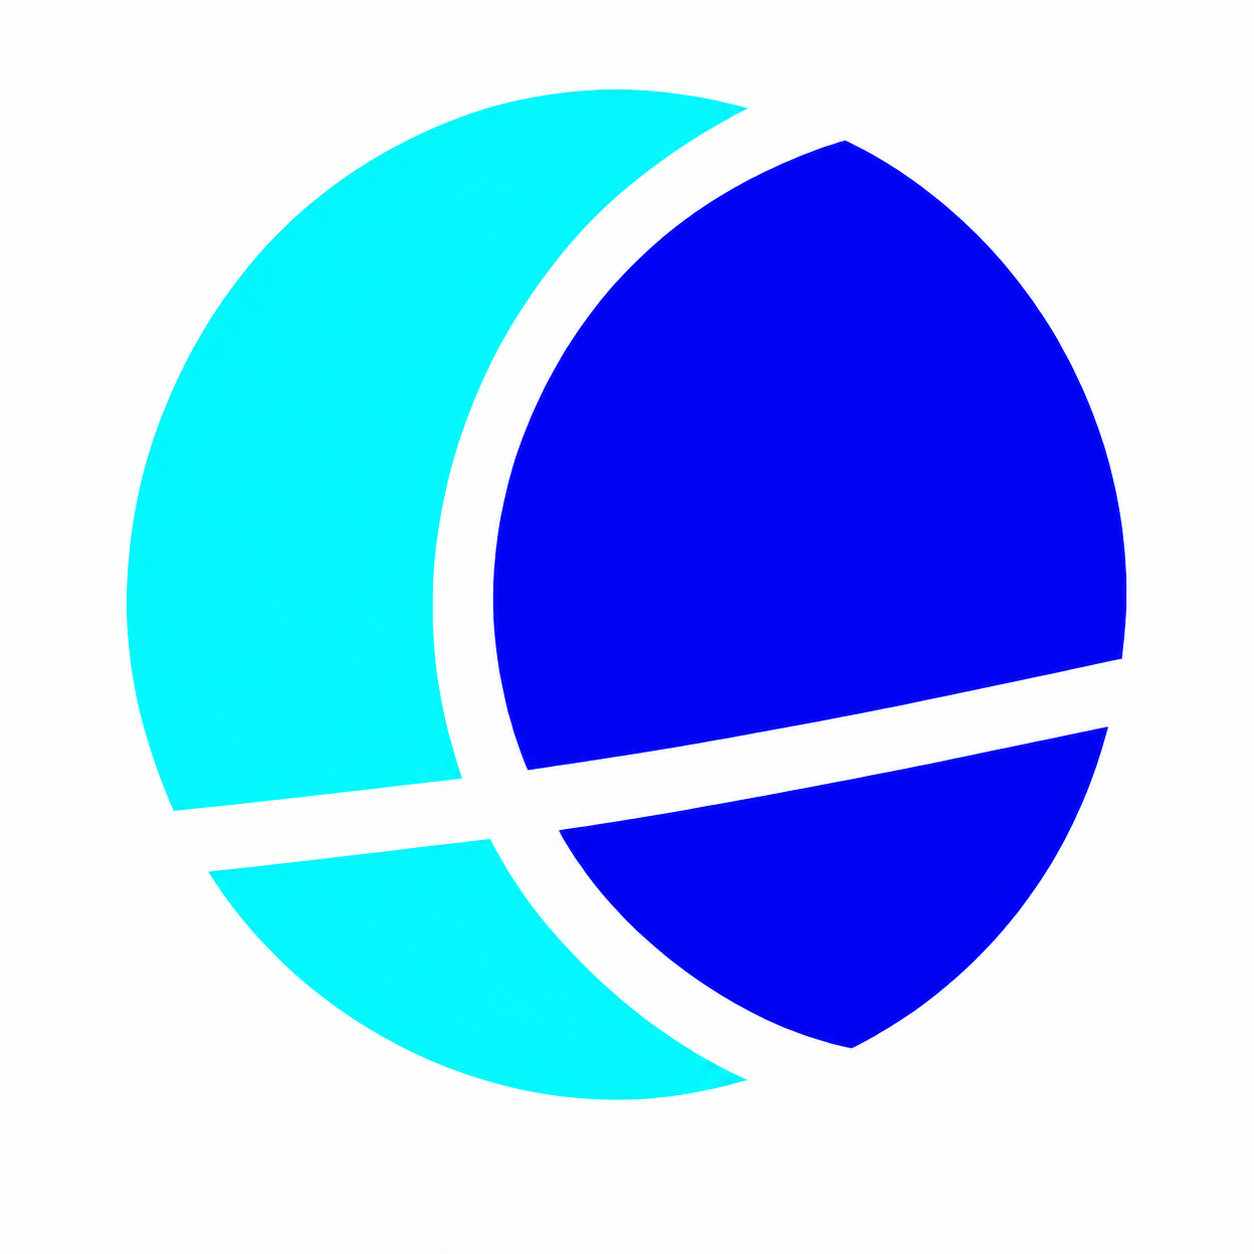
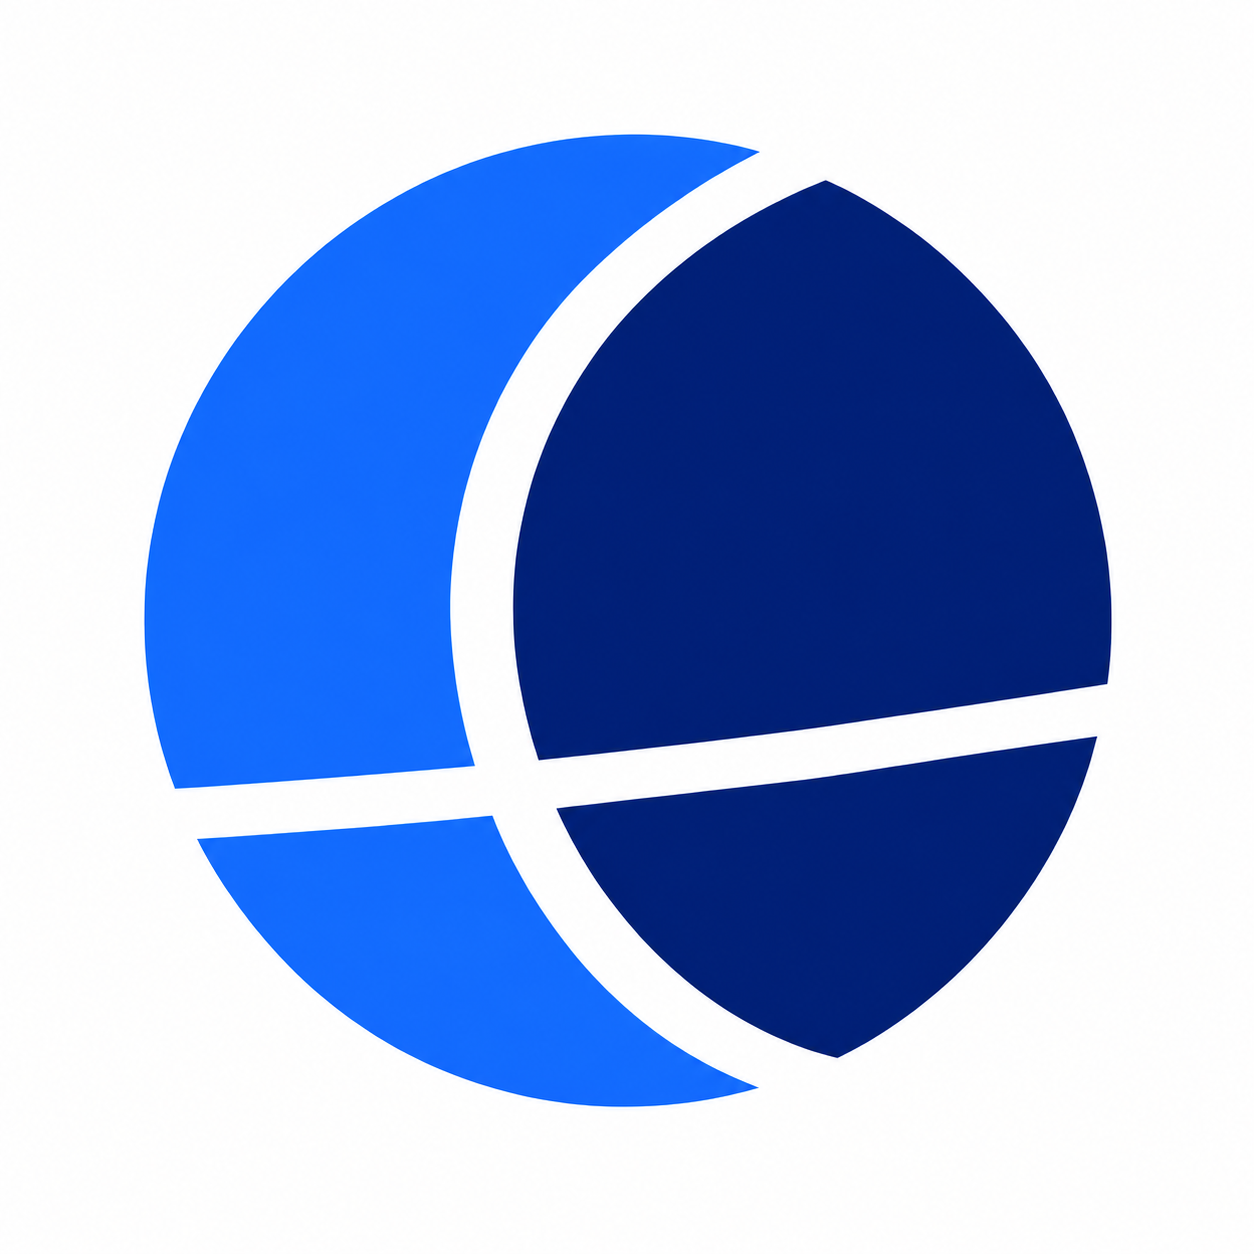
Update JSG CI colors, symbol, and Philosophy description

diff --git a/about.html b/about.html
@@ -8,12 +8,12 @@
     <title>JSG INVESTMENT</title>
     <link rel="preload" href="assets/fonts/D2Coding-Regular.ttf" as="font" type="font/ttf" crossorigin>
     <link rel="preload" href="assets/fonts/JetBrainsMonoNerdFont-Regular.ttf" as="font" type="font/ttf" crossorigin>
-    <link rel="stylesheet" href="styles/tokens.css?v=20260910-team-refinement">
+    <link rel="stylesheet" href="styles/tokens.css?v=20260918-ci">
     <link rel="stylesheet" href="styles/reset.css">
-    <link rel="stylesheet" href="styles/layout.css?v=20260910-title-greeting">
+    <link rel="stylesheet" href="styles/layout.css?v=20260918-ci">
     <link rel="stylesheet" href="styles/main.css?v=20260910-team-refinement">
-    <link rel="stylesheet" href="styles/about-editorial.css?v=20260910-regular-title">
-    <link rel="stylesheet" href="styles/home.css?v=20260910-team-refinement">
+    <link rel="stylesheet" href="styles/about-editorial.css?v=20260918-ci">
+    <link rel="stylesheet" href="styles/home.css?v=20260918-ci">
     <link rel="stylesheet" href="styles/section-reveal.css?v=20260908-screen-edges">
 </head>
 
@@ -21,7 +21,7 @@
     <a class="skip-link" href="#main-content">본문으로 이동</a>
     <header class="site-header">
         <div class="header-inner">
-            <a href="about.html" class="logo" aria-label="JSG INVESTMENT"><img class="brand-mark" src="assets/shared/jsg-emblem.png" alt="" width="80" height="80"><span class="brand-wordmark">JSG INVESTMENT</span></a>
+            <a href="about.html" class="logo" aria-label="JSG INVESTMENT"><img class="brand-mark" src="assets/shared/jsg-emblem.png?v=2026-09-18-ci" alt="" width="80" height="80"><span class="brand-wordmark">JSG INVESTMENT</span></a>
             <button class="menu-toggle" type="button" aria-controls="primary-navigation" aria-expanded="false" aria-label="Open menu">
                 <span class="menu-icon" aria-hidden="true"><span></span><span></span><span></span></span>
             </button>
@@ -41,7 +41,7 @@
         <section id="about" data-content-ready="false" class="home-section" aria-label="About" tabindex="-1">
 
             <div class="curtain-track"><div class="curtain-scene">
-<div class="about-title-band curtain-band greeting-title-band">
+<div class="about-title-band curtain-band greeting-title-band ci-inverse-text">
     <p id="page-loading" class="page-loading" data-min-display-ms="500" role="status" aria-live="polite">Hello!</p>
 
                 <div class="section-inner about-title-grid">
@@ -69,7 +69,7 @@
         <section id="team" data-content-ready="false" class="home-section" aria-label="Team" tabindex="-1">
 
             <div class="curtain-track"><div class="curtain-scene">
-<section class="page-hero section-title-band curtain-band">
+<section class="page-hero section-title-band curtain-band ci-inverse-text">
                 <div class="page-hero-surface section-inner">
                     <div class="page-hero-text carousel-heading">
                         <h2 class="section-title">Team</h2>
@@ -90,7 +90,7 @@
 </div>
 </section>
         <section id="philosophy" data-content-ready="false" aria-label="Philosophy" tabindex="-1">
-            <div class="philosophy-main home-section home-section--blue">
+            <div class="philosophy-main home-section home-section--blue ci-inverse-text">
                 <div class="section-inner">
                     <div class="curtain-track"><div class="curtain-scene">
 <section class="page-hero curtain-band">
@@ -172,7 +172,7 @@
         <section id="portfolio" data-content-ready="false" aria-labelledby="portfolio-band-title" tabindex="-1">
             <section class="portfolio-band home-section" aria-labelledby="portfolio-band-title">
                 <div class="curtain-track"><div class="curtain-scene">
-<div class="portfolio-band-heading section-title-band curtain-band">
+<div class="portfolio-band-heading section-title-band curtain-band ci-inverse-text">
                     <div class="section-inner carousel-heading"><h2 id="portfolio-band-title" class="section-title">Portfolio</h2><button id="company-motion-toggle" class="carousel-toggle" type="button" aria-pressed="false" aria-label="Pause Portfolio carousel" aria-controls="portfolio-name-list" hidden><span class="media-character" aria-hidden="true"></span></button></div>
                 </div>
 <div class="curtain-body">
@@ -187,10 +187,10 @@
 </section>
 
         </section>
-        <section id="notice" data-content-ready="false" class="home-section" aria-label="Notice" tabindex="-1">
+        <section id="notice" data-content-ready="false" class="home-section ci-inverse-text" aria-label="Notice" tabindex="-1">
 
             <div class="curtain-track"><div class="curtain-scene">
-<section class="page-hero section-title-band curtain-band">
+<section class="page-hero section-title-band curtain-band ci-inverse-text">
                 <div class="page-hero-surface section-inner">
                     <div class="page-hero-text">
                         <h2 class="section-title">Notice</h2>
@@ -210,7 +210,7 @@
 </div>
 </div>
 </section>
-        <section id="contact" data-content-ready="false" class="home-section home-section--navy" aria-label="Contact" tabindex="-1">
+        <section id="contact" data-content-ready="false" class="home-section" aria-label="Contact" tabindex="-1">
             <div class="section-inner">
             <div class="curtain-track"><div class="curtain-scene">
 <section class="page-hero curtain-band">
@@ -256,7 +256,7 @@
             <section id="about-jsg" class="page-hero company-footer" aria-label="About JSG Investment">
                 <div class="page-hero-surface" data-shared-hero="logo">
                     <div class="page-hero-media about-hero-media">
-                        <img src="assets/shared/jsg-emblem.png" alt="" width="180" height="180"><span class="brand-wordmark">JSG INVESTMENT</span>
+                        <img src="assets/shared/jsg-emblem.png?v=2026-09-18-ci" alt="" width="180" height="180"><span class="brand-wordmark">JSG INVESTMENT</span>
                     </div>
                     <div class="page-hero-text bilingual-stack">
                         <p class="page-hero-kicker"></p>

diff --git a/team-member.html b/team-member.html
@@ -7,11 +7,11 @@
     <title>JSG INVESTMENT</title>
     <link rel="preload" href="assets/fonts/D2Coding-Regular.ttf" as="font" type="font/ttf" crossorigin>
     <link rel="preload" href="assets/fonts/JetBrainsMonoNerdFont-Regular.ttf" as="font" type="font/ttf" crossorigin>
-    <link rel="stylesheet" href="styles/tokens.css?v=20260910-team-refinement">
+    <link rel="stylesheet" href="styles/tokens.css?v=20260918-ci">
     <link rel="stylesheet" href="styles/reset.css">
-    <link rel="stylesheet" href="styles/layout.css?v=20260910-title-greeting">
+    <link rel="stylesheet" href="styles/layout.css?v=20260918-ci">
     <link rel="stylesheet" href="styles/main.css?v=20260910-team-refinement">
-    <link rel="stylesheet" href="styles/detail.css?v=20260910-team-refinement">
+    <link rel="stylesheet" href="styles/detail.css?v=20260918-ci">
     <link rel="stylesheet" href="styles/section-reveal.css?v=20260908-screen-edges">
 </head>
 
@@ -19,7 +19,7 @@
     <a class="skip-link" href="#main-content">본문으로 이동</a>
     <header class="site-header">
         <div class="header-inner">
-            <a href="about.html" class="logo" aria-label="JSG INVESTMENT"><img class="brand-mark" src="assets/shared/jsg-emblem.png" alt="" width="80" height="80"><span class="brand-wordmark">JSG INVESTMENT</span></a>
+            <a href="about.html" class="logo" aria-label="JSG INVESTMENT"><img class="brand-mark" src="assets/shared/jsg-emblem.png?v=2026-09-18-ci" alt="" width="80" height="80"><span class="brand-wordmark">JSG INVESTMENT</span></a>
             <button class="menu-toggle" type="button" aria-controls="primary-navigation" aria-expanded="false" aria-label="Open menu">
                 <span class="menu-icon" aria-hidden="true"><span></span><span></span><span></span></span>
             </button>
@@ -38,7 +38,7 @@
     <main id="main-content" class="site-main site-main--interior" tabindex="-1">
         <div class="detail-shell">
             <div class="curtain-track"><div class="curtain-scene">
-<section class="page-hero detail-hero curtain-band greeting-title-band">
+<section class="page-hero detail-hero curtain-band ci-inverse-text greeting-title-band">
                 <div class="page-hero-surface detail-inner">
                     <div class="page-hero-text bilingual-stack">
                         <p class="page-hero-kicker">Team</p>

diff --git a/notice.html b/notice.html
@@ -8,11 +8,11 @@
     <title>JSG INVESTMENT</title>
     <link rel="preload" href="assets/fonts/D2Coding-Regular.ttf" as="font" type="font/ttf" crossorigin>
     <link rel="preload" href="assets/fonts/JetBrainsMonoNerdFont-Regular.ttf" as="font" type="font/ttf" crossorigin>
-    <link rel="stylesheet" href="styles/tokens.css?v=20260910-team-refinement">
+    <link rel="stylesheet" href="styles/tokens.css?v=20260918-ci">
     <link rel="stylesheet" href="styles/reset.css">
-    <link rel="stylesheet" href="styles/layout.css?v=20260910-title-greeting">
+    <link rel="stylesheet" href="styles/layout.css?v=20260918-ci">
     <link rel="stylesheet" href="styles/main.css?v=20260910-team-refinement">
-    <link rel="stylesheet" href="styles/detail.css?v=20260910-team-refinement">
+    <link rel="stylesheet" href="styles/detail.css?v=20260918-ci">
     <link rel="stylesheet" href="styles/section-reveal.css?v=20260908-screen-edges">
 </head>
 
@@ -20,7 +20,7 @@
     <a class="skip-link" href="#main-content">본문으로 이동</a>
     <header class="site-header">
         <div class="header-inner">
-            <a href="about.html" class="logo" aria-label="JSG INVESTMENT"><img class="brand-mark" src="assets/shared/jsg-emblem.png" alt="" width="80" height="80"><span class="brand-wordmark">JSG INVESTMENT</span></a>
+            <a href="about.html" class="logo" aria-label="JSG INVESTMENT"><img class="brand-mark" src="assets/shared/jsg-emblem.png?v=2026-09-18-ci" alt="" width="80" height="80"><span class="brand-wordmark">JSG INVESTMENT</span></a>
             <button class="menu-toggle" type="button" aria-controls="primary-navigation" aria-expanded="false" aria-label="Open menu">
                 <span class="menu-icon" aria-hidden="true"><span></span><span></span><span></span></span>
             </button>
@@ -39,7 +39,7 @@
     <main id="main-content" class="site-main site-main--interior" tabindex="-1">
         <div class="detail-shell">
             <div class="curtain-track"><div class="curtain-scene">
-<section class="page-hero detail-hero curtain-band greeting-title-band">
+<section class="page-hero detail-hero curtain-band ci-inverse-text greeting-title-band">
                 <div class="page-hero-surface detail-inner">
                     <div class="page-hero-text">
                         <p class="page-hero-kicker">Notice</p>

diff --git a/portfolio.html b/portfolio.html
@@ -8,11 +8,11 @@
     <title>JSG INVESTMENT</title>
     <link rel="preload" href="assets/fonts/D2Coding-Regular.ttf" as="font" type="font/ttf" crossorigin>
     <link rel="preload" href="assets/fonts/JetBrainsMonoNerdFont-Regular.ttf" as="font" type="font/ttf" crossorigin>
-    <link rel="stylesheet" href="styles/tokens.css?v=20260910-team-refinement">
+    <link rel="stylesheet" href="styles/tokens.css?v=20260918-ci">
     <link rel="stylesheet" href="styles/reset.css">
-    <link rel="stylesheet" href="styles/layout.css?v=20260910-title-greeting">
+    <link rel="stylesheet" href="styles/layout.css?v=20260918-ci">
     <link rel="stylesheet" href="styles/main.css?v=20260910-team-refinement">
-    <link rel="stylesheet" href="styles/detail.css?v=20260910-ci-alignment">
+    <link rel="stylesheet" href="styles/detail.css?v=20260918-ci">
     <link rel="stylesheet" href="styles/section-reveal.css?v=20260908-screen-edges">
 </head>
 
@@ -20,7 +20,7 @@
     <a class="skip-link" href="#main-content">본문으로 이동</a>
     <header class="site-header">
         <div class="header-inner">
-            <a href="about.html" class="logo" aria-label="JSG INVESTMENT"><img class="brand-mark" src="assets/shared/jsg-emblem.png" alt="" width="80" height="80"><span class="brand-wordmark">JSG INVESTMENT</span></a>
+            <a href="about.html" class="logo" aria-label="JSG INVESTMENT"><img class="brand-mark" src="assets/shared/jsg-emblem.png?v=2026-09-18-ci" alt="" width="80" height="80"><span class="brand-wordmark">JSG INVESTMENT</span></a>
             <button class="menu-toggle" type="button" aria-controls="primary-navigation" aria-expanded="false" aria-label="Open menu">
                 <span class="menu-icon" aria-hidden="true"><span></span><span></span><span></span></span>
             </button>
@@ -39,7 +39,7 @@
     <main id="main-content" class="site-main site-main--interior" tabindex="-1">
         <div class="detail-shell">
             <div class="curtain-track"><div class="curtain-scene">
-<section class="page-hero detail-hero curtain-band greeting-title-band">
+<section class="page-hero detail-hero curtain-band ci-inverse-text greeting-title-band">
                 <div class="page-hero-surface detail-inner">
                     <div class="page-hero-text">
                         <p class="page-hero-kicker">Portfolio</p>

diff --git a/styles/home.css b/styles/home.css
@@ -82,10 +82,10 @@
     object-fit: cover;
     object-position: center;
 }
-.home-page :is(.home-section--blue, .home-section--navy) { --focus-ring-color: var(--base-white); }
+.home-page .home-section--blue { --focus-ring-color: var(--base-white); }
 .home-page .home-section--blue { color: var(--base-white); background: var(--brand-royal-blue); }
-.home-page .home-section--navy { color: var(--base-white); background: var(--brand-deep-blue); }
-.home-page :is(.home-section--blue, .home-section--navy) .page-hero-sub { color: var(--base-white); }
+.home-page #contact { color: var(--brand-deep-blue); background: var(--bg-page); }
+.home-page .home-section--blue .page-hero-sub { color: var(--base-white); }
 .home-page .philosophy-section { margin: 0; }
 .home-page .philosophy-list { display: grid; grid-template-columns: repeat(3, minmax(0, 1fr)); gap: 36px; }
 .home-page .philosophy-card {
@@ -167,8 +167,8 @@
     --about-title-size: clamp(26px, 3.4vw, 48px);
     --about-title-leading: calc(var(--about-title-size) * 1.5);
     padding-block: clamp(48px, 6vw, 88px);
-    background: var(--accent-cyan);
-    color: var(--brand-deep-blue);
+    background: var(--brand-royal-blue);
+    color: var(--base-white);
 }
 .home-page .about-title-grid {
     display: grid;
@@ -192,7 +192,7 @@
 .home-page .portfolio-band-heading {
     padding-block: var(--section-band-space);
     margin: 0 0 32px;
-    color: var(--brand-deep-blue);
+    color: var(--base-white);
     background: var(--portfolio-title-bg);
 }
 .home-page :is(.team-role, .team-role-en, .team-name-en) { font-size: 16px; }

diff --git a/styles/tokens.css b/styles/tokens.css
@@ -24,9 +24,9 @@
 :root {
   --media-play: ">";
   --media-pause: "‖";
-  --palette-cyan: #04f8fd; /* dominant cyan sampled from jsg-emblem.png */
-  --palette-blue: #1d4ed8;
-  --palette-navy: #0f172a;
+  --palette-cyan: #04f8fd; /* optional CI accent */
+  --palette-blue: #226cf5;
+  --palette-navy: #001d6c;
   --palette-yellow: #e8b51b;
   --palette-red: #dc2626;
   --palette-gray-light: #f4f4f4;
@@ -58,7 +58,8 @@
   --action-primary-bg: var(--palette-blue);
   --action-primary-text: var(--palette-blue);
   --action-disabled: var(--palette-gray-dark);
-  --portfolio-title-bg: var(--palette-cyan);
+  --portfolio-title-bg: var(--palette-blue);
+  --inverse-text-stroke: 0.22px var(--palette-navy);
   --notice-title-bg: var(--palette-blue);
   --board-control-hover: color-mix(in srgb, currentColor 10%, transparent);
 

diff --git a/styles/layout.css b/styles/layout.css
@@ -208,3 +208,12 @@ html:not(.page-pending) .page-loading { display: none; }
 .nav-chevron[data-direction="up"]::before { content: var(--chevron-up); }
 .nav-chevron[data-direction="down"]::before { content: var(--chevron-down); }
 .footer-bottom a, .detail-return { display: inline-flex; align-items: center; gap: 8px; min-height: 44px; }
+
+/* Approved CI treatment: a fine edge behind white text, without changing glyph layout. */
+.ci-inverse-text {
+    --focus-ring-color: var(--base-white);
+    -webkit-text-stroke: var(--inverse-text-stroke);
+    paint-order: stroke fill;
+}
+/* The important badge has its own white surface and red text. */
+.ci-inverse-text .badge-important { -webkit-text-stroke: 0; }

diff --git a/styles/detail.css b/styles/detail.css
@@ -9,7 +9,7 @@
 .detail-page .detail-hero {
     padding: var(--section-band-space) 0;
     margin: 0;
-    color: var(--brand-deep-blue);
+    color: var(--base-white);
     background: var(--notice-title-bg);
 }
 .detail-page--portfolio .detail-hero { background: var(--portfolio-title-bg); }

diff --git a/styles/about-editorial.css b/styles/about-editorial.css
@@ -46,7 +46,7 @@
 .about-editorial .about-section-title {
     margin: 0;
     padding: 0;
-    color: var(--editorial-ink);
+    color: inherit;
     font-family: var(--font-family-base);
     font-size: var(--about-title-size);
     font-weight: 400;

diff --git a/AGENTS.md b/AGENTS.md
@@ -1,5 +1,14 @@
 # JSG 디자인 실험 worktree — 작업 지침
 
+### CI 색상·심벌·텍스트 대비 — 2026-09-18 최신 결정
+
+- CI 기본 파랑은 밝은 파랑 `#226CF5`와 짙은 파랑 `#001D6C`다. `docs/jsg-ci-colors-guideline.txt`가 색상 기준이다. About·Portfolio의 기존 사이안 제목 색면을 새 밝은 파랑으로 바꾸며 Team·Philosophy·Notice와 상세 제목에도 같은 파랑을 사용한다.
+- 파란 배경의 글자는 흰색과 눈에 거의 띄지 않는 0.22px 남색 외곽선을 사용한다. 외곽선은 글자 뒤에 그리며 흰 글자 자체의 대비를 유지한다. 흰 배경의 글자와 중요 배지에는 적용하지 않는다.
+- Contact는 Notice와 구분되도록 흰 배경과 남색 글자를 사용한다. 위치 약도의 형태·문구는 유지하고 기본 두 파랑과 읽기 쉬운 글자색을 반영한다.
+- 새 흰 배경 복원 심벌을 `assets/shared/jsg-emblem.png`에 적용한다. 기존 1254×1254 이미지 크기와 화면 표시 크기를 유지하며 무손실 압축한다. 제공된 원본·투명 버전은 보존한다.
+- 이번 결정은 위 항목의 과거 색상·로고 결정을 대체한다. 콘텐츠·레이아웃·동작은 유지하며 로컬 소스 변경만 승인되었다.
+
+
 ### 로딩 인사·웹 사진 최적화 — 2026-09-10
 
 - 페이지별 로딩 상태는 첫 화면인 About에서만 하나의 `Hello!`를 표시한다. 첫 제목 색면 안에 공통 고정폭 글꼴 48–96px로 가운데 정렬하며, 최소 0.5초와 모든 콘텐츠 데이터·글꼴·현재 화면에 필요한 이미지 준비가 모두 끝나면 제거한다. Team·Portfolio·Notice 상세에는 `Hello!`를 포함한 로딩 문구나 로딩 화면을 표시하지 않는다. 화면 밖 지연 로딩 이미지는 스크롤 시 불러오는 동작을 유지한다. 실패 안내는 각 콘텐츠 영역에 유지한다.
